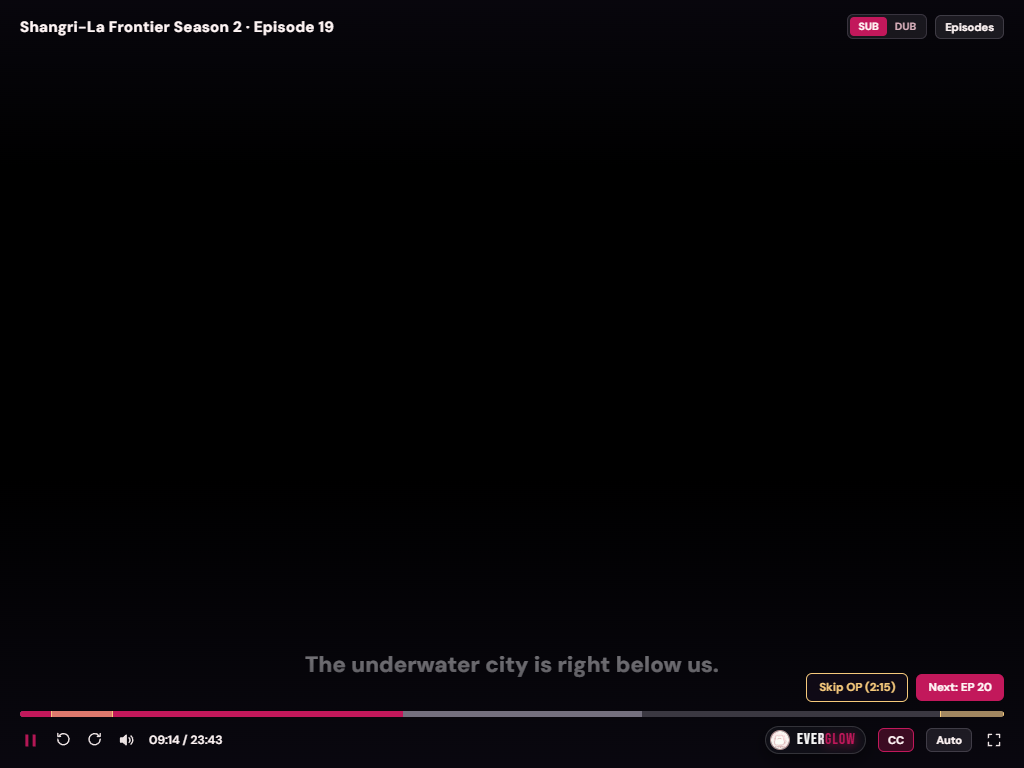
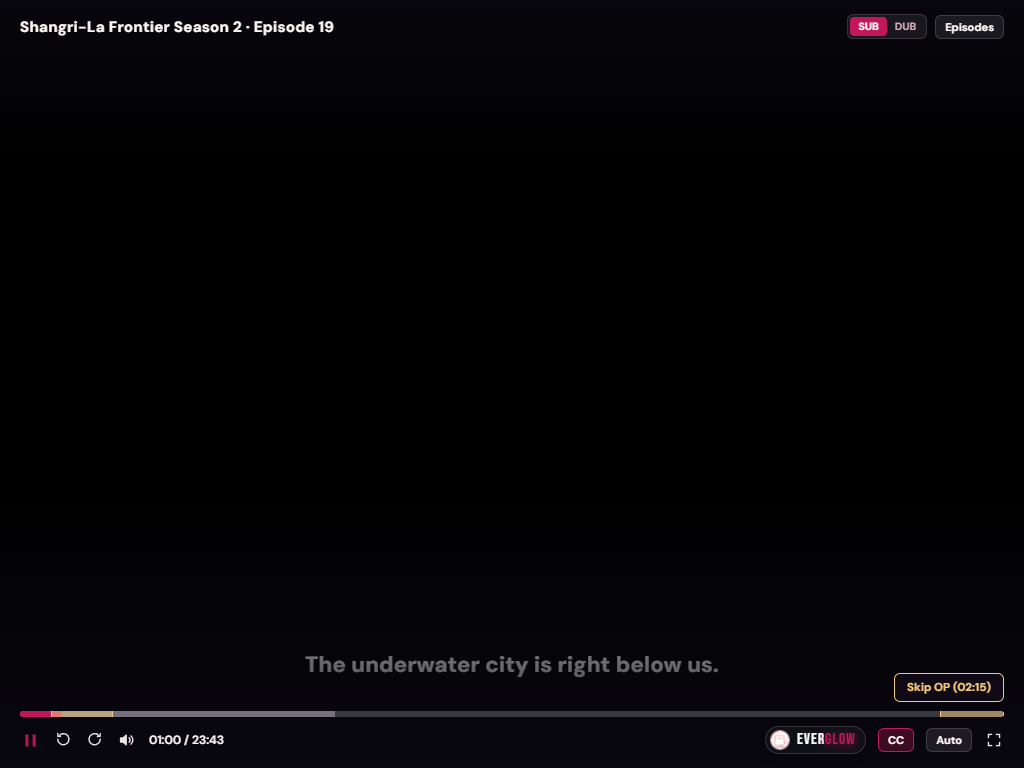
docs(pr-proof): player opening and ending states

Changed region(s): [[0.0625, 0.9062, 0.625, 0.9688], [0.7812, 0.875, 1.0, 0.9375]]

diff --git a/docs/pr-proof/pr-571/README.md b/docs/pr-proof/pr-571/README.md
@@ -15,15 +15,18 @@ outside the player.
   each letter riding a wave. No spinner, no card.
 - **Netflix subtitles.** `video::cue` and the caption overlay both draw
   bold white text with a dark stroke and no background box.
-- **Sakura Broadcast HUD.** Title, SUB/DUB, Episodes, Skip OP, Next
-  episode, a scrubber with gold OP/ED segments, play, -10s, +10s, volume,
-  time, the Everglow badge, CC, quality, fullscreen. The HUD fades out
-  after 2.8 s of playback and returns on mouse or touch.
+- **Sakura Broadcast HUD.** Title, SUB/DUB, Episodes, a scrubber with gold
+  OP/ED segments, play, -10s, +10s, volume, time, the Everglow badge, CC,
+  quality, fullscreen. The HUD fades out after 2.8 s of playback and
+  returns on mouse or touch.
+- **One button per moment.** The Skip pill belongs to the opening only.
+  The Next episode button belongs to the ending, or to the last 90 seconds
+  when nobody marked one. They never show together, and Next stays hidden
+  when nothing follows (a film, or the last episode of the last season).
 - **Skip controls moved inside the player.** The watch page no longer
   draws a Skip Opening / Skip Ending row or a "What happened" link under
-  the video. The player gets the AniSkip windows over `postMessage` and
-  draws its own Skip OP pill plus the gold timeline segments. The episode
-  list already carries each synopsis, so the link was duplicate text.
+  the video. The episode list already carries each synopsis, so the link
+  was duplicate text.
 
 ## Proof
 
@@ -36,18 +39,19 @@ same title, same episode.
   server row.
 
 The player shots come from the real `hlsPlayerHtml` output, opened in
-Chrome at phone and tablet widths, with a stubbed 23:43 episode so the
-scrubber, chapters and skip pill show real values.
+Chrome over http so the app's own `postMessage` path runs, with a stubbed
+23:43 episode and AniSkip windows of 0:45–2:15 and 22:10–23:43.
 
 - `player-loading-wave-phone.png` — the `EVERGLOW` wave while the stream
   boots.
-- `player-hud-phone.png` — 430 px: gold OP segment at the left, gold ED
-  segment at the right, Skip OP pill, Next: EP 20, the Everglow badge,
-  and the subtitle with no box.
-- `player-hud-tablet.png` — 1024 px: the same HUD with the volume button
-  back.
+- `player-opening-skip-phone.png` — 430 px at 1:00, inside the opening:
+  `Skip OP (02:15)` is offered and no Next button exists.
+- `player-ending-next-phone.png` — 430 px at 22:30, inside the ending:
+  `Next: EP 20` is offered and the Skip pill is gone.
+- `player-hud-tablet.png` — 1024 px at 1:00: the same opening state with
+  the volume button back.
 
 Not proven here: a live MegaPlay or Megavid stream inside the new HUD.
 The sandbox has no Firebase login, so the resolver answers its failover
-page. The HUD, wave, cue styling and skip wiring are proven; the stream
+page. The HUD, wave, cue styling and button gating are proven; the stream
 itself is proven separately in `docs/pr-proof/pr-557/`.
